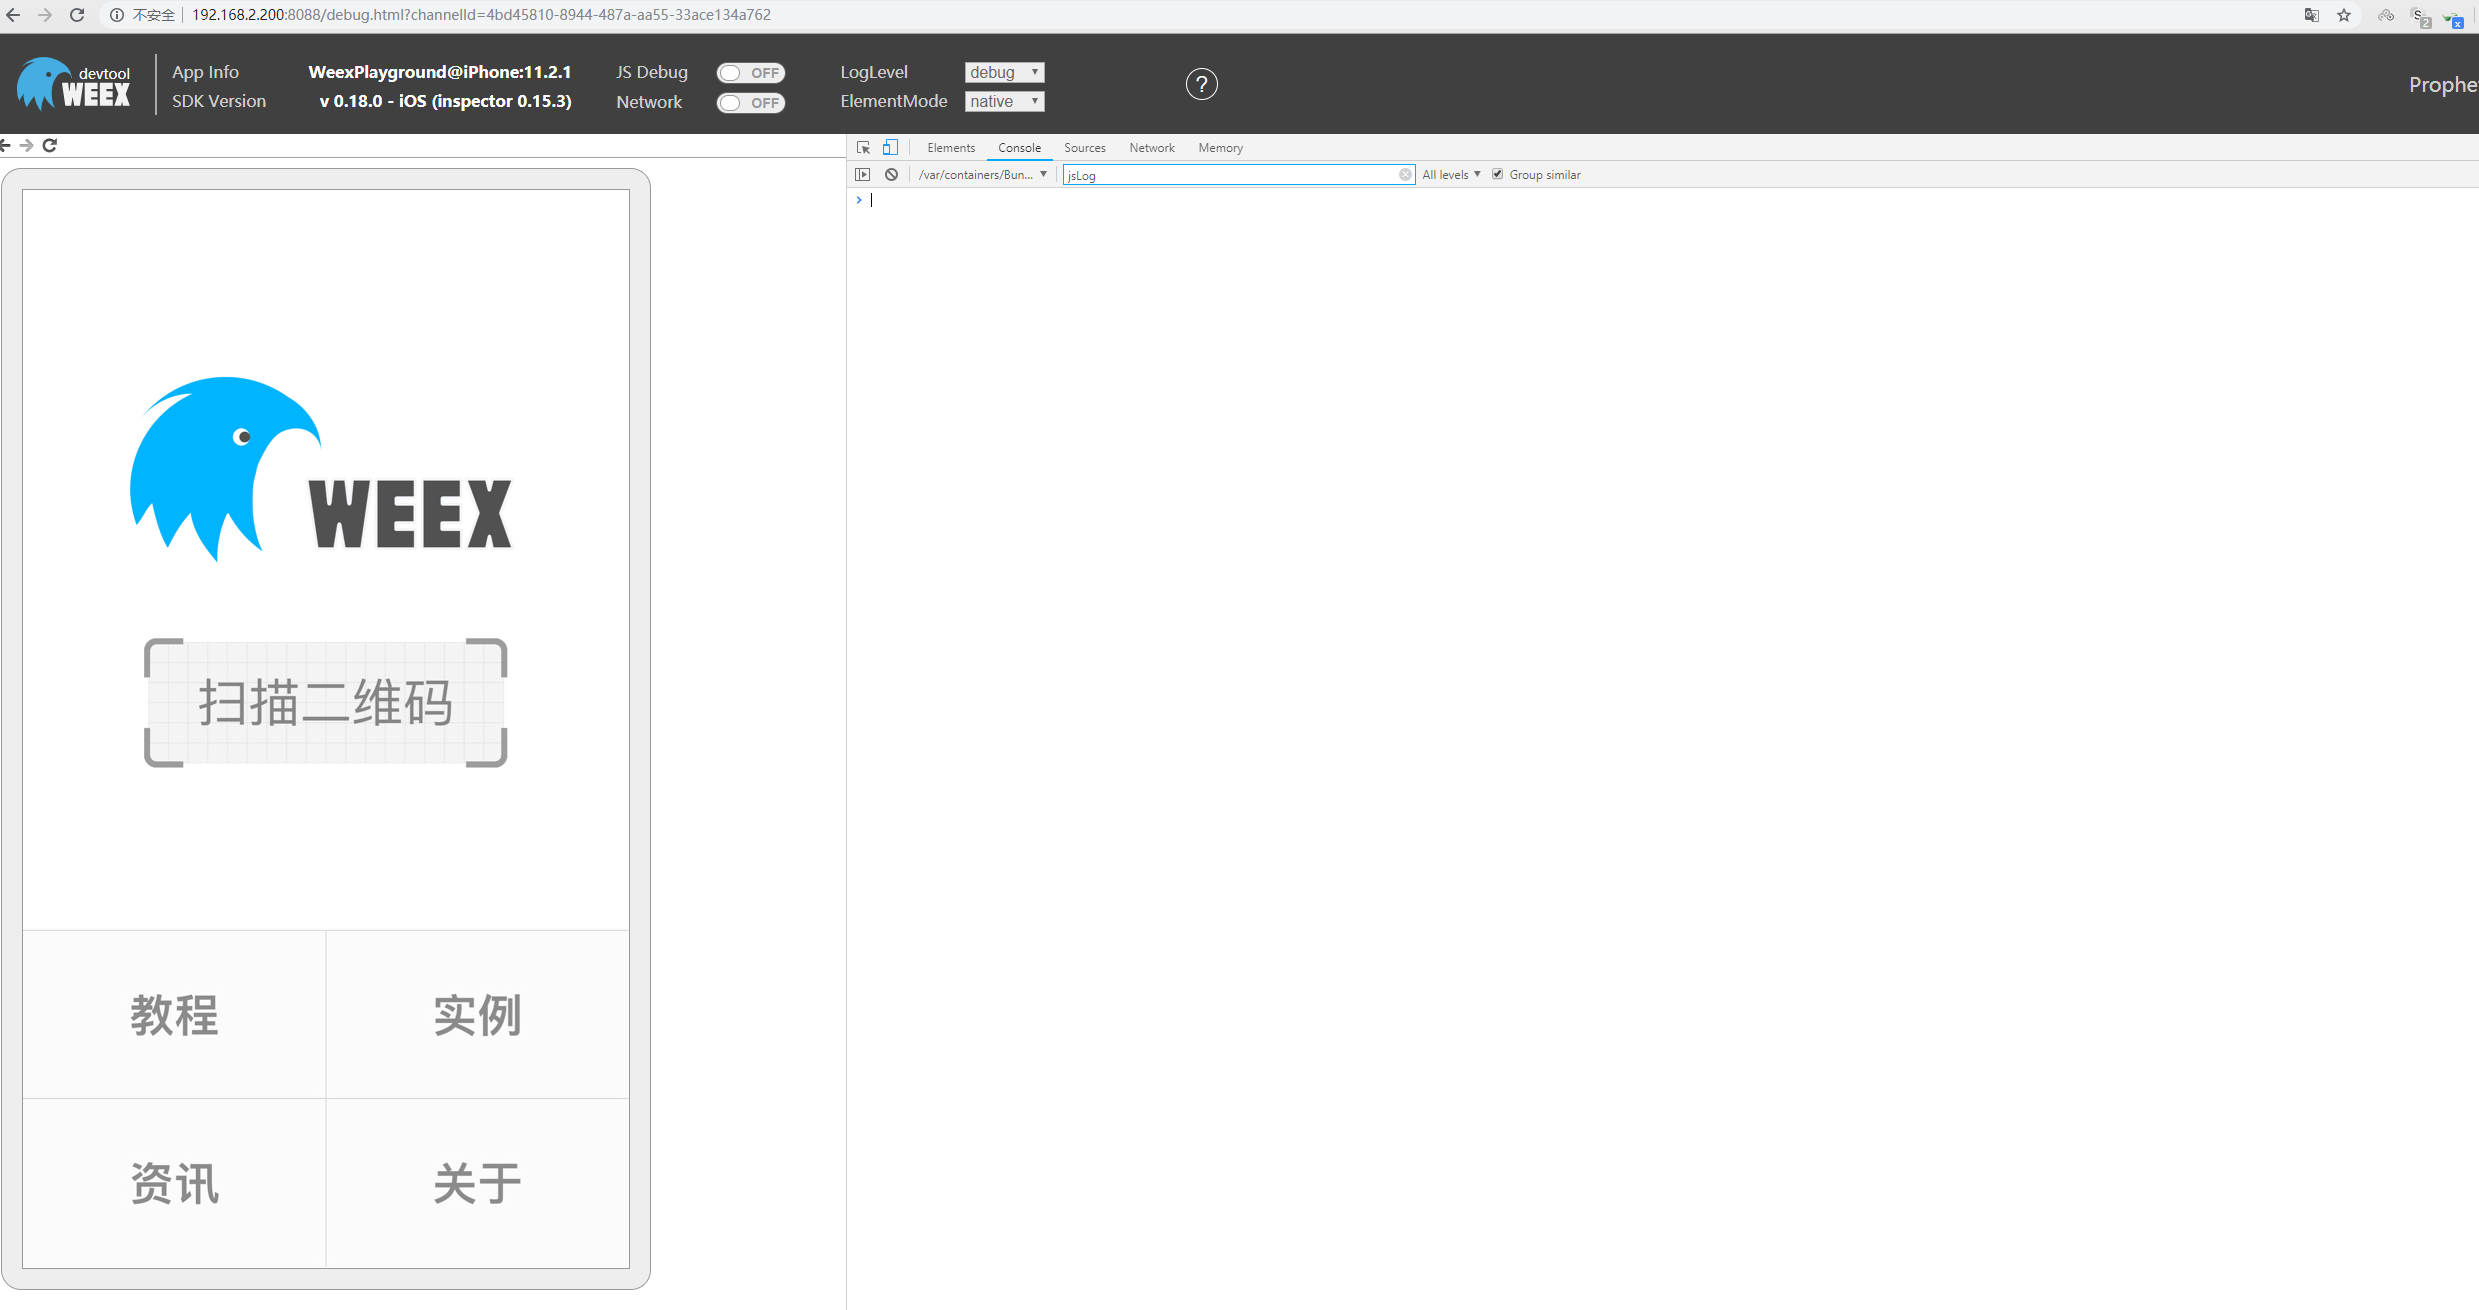
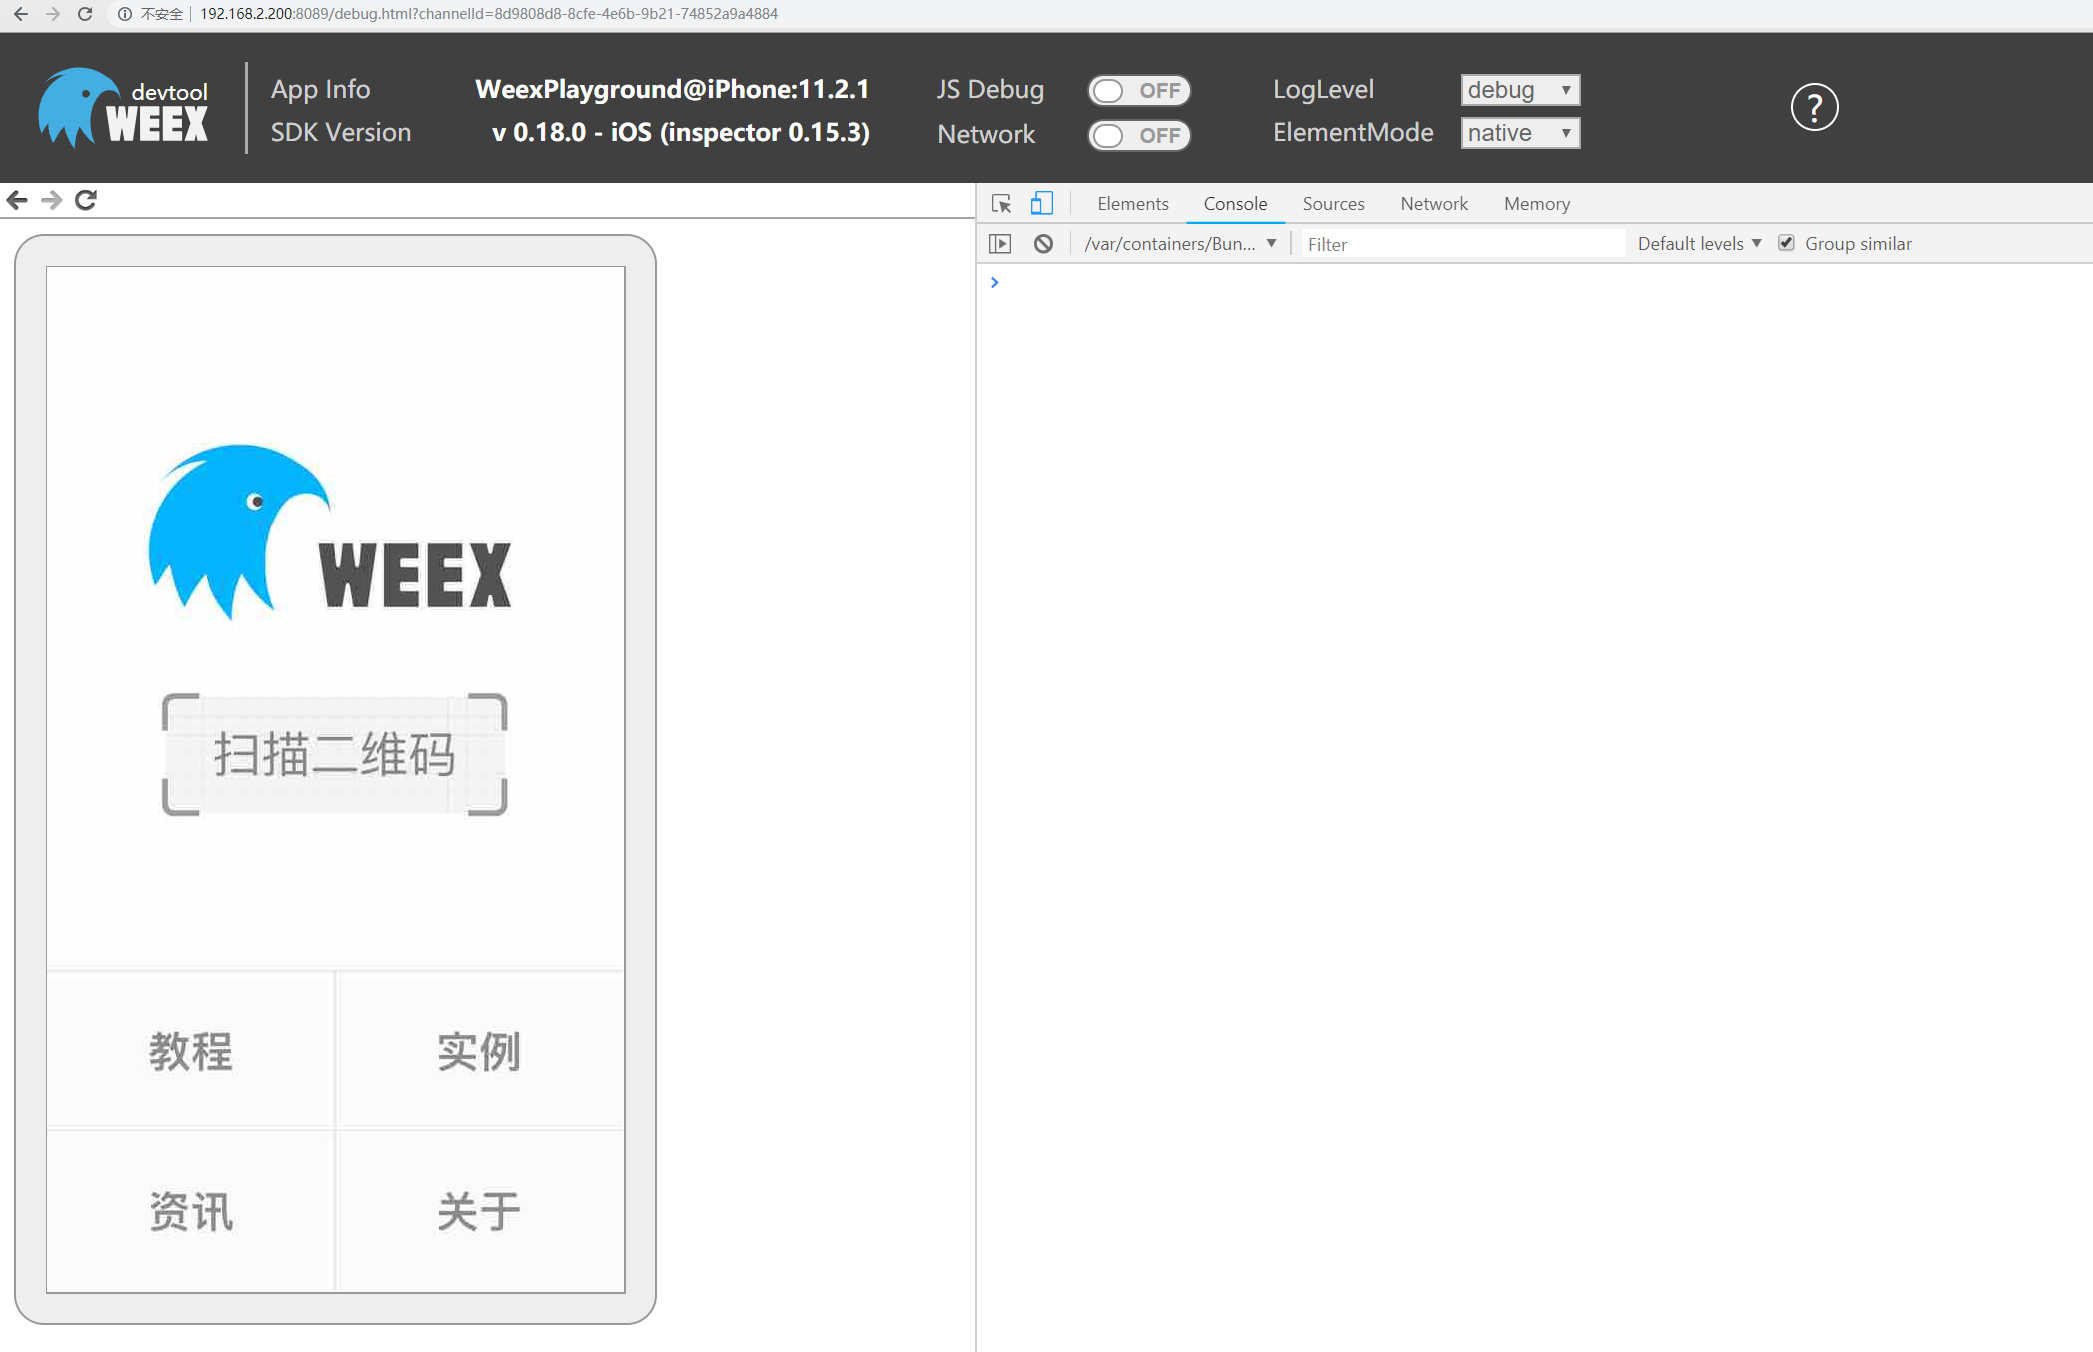
调试说明

diff --git a/docs/guide/debug.md b/docs/guide/debug.md
@@ -15,20 +15,23 @@ npm run debug
 
 ![file-list](../.vuepress/public/debug2.png)
 
-- 1.2 此时在app打开weex编译好的JSbundle,即可在调试页面中调试，调试页面console中可以看到weex页面写的console.log
+- 1.2 勾选 all level
+![file-list](../.vuepress/public/debug5.png)
+
+- 1.3 此时在app打开weex编译好的JSbundle,即可在调试页面中调试，调试页面console中可以看到weex页面写的console.log
 
 ## 调试正在开发的页面
 
 ```bash
 npm run debug [vue/weex页面的路径]
 ```
-- 2.1 也是需要使pc与移动终端建立连接，步骤与1.1一致
+- 2.1 也是需要使pc与移动终端建立连接，步骤与1.1  1.2一致
 
 - 2.2 此时右上角有另外一个二维码，点开并扫描这个二维码即可将这个JSbundle页面载入真机渲染成原生页面
 
 ![file-list](../.vuepress/public/debug4.png)
 
-- 2.3 调试步骤跟1.2一致
+- 2.3 调试步骤跟1.3一致
 
 - hotreload
 
